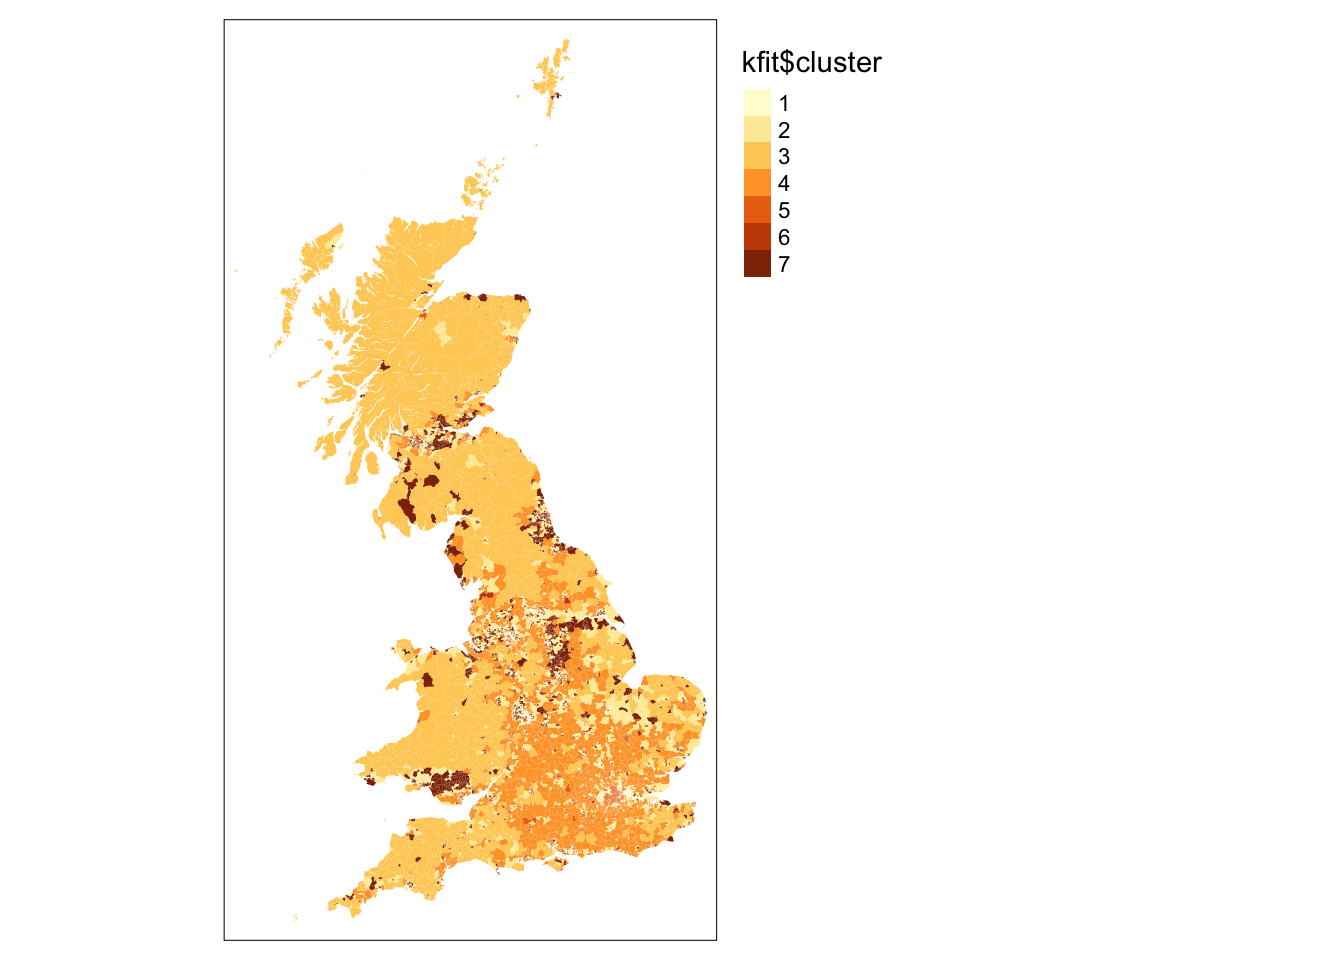
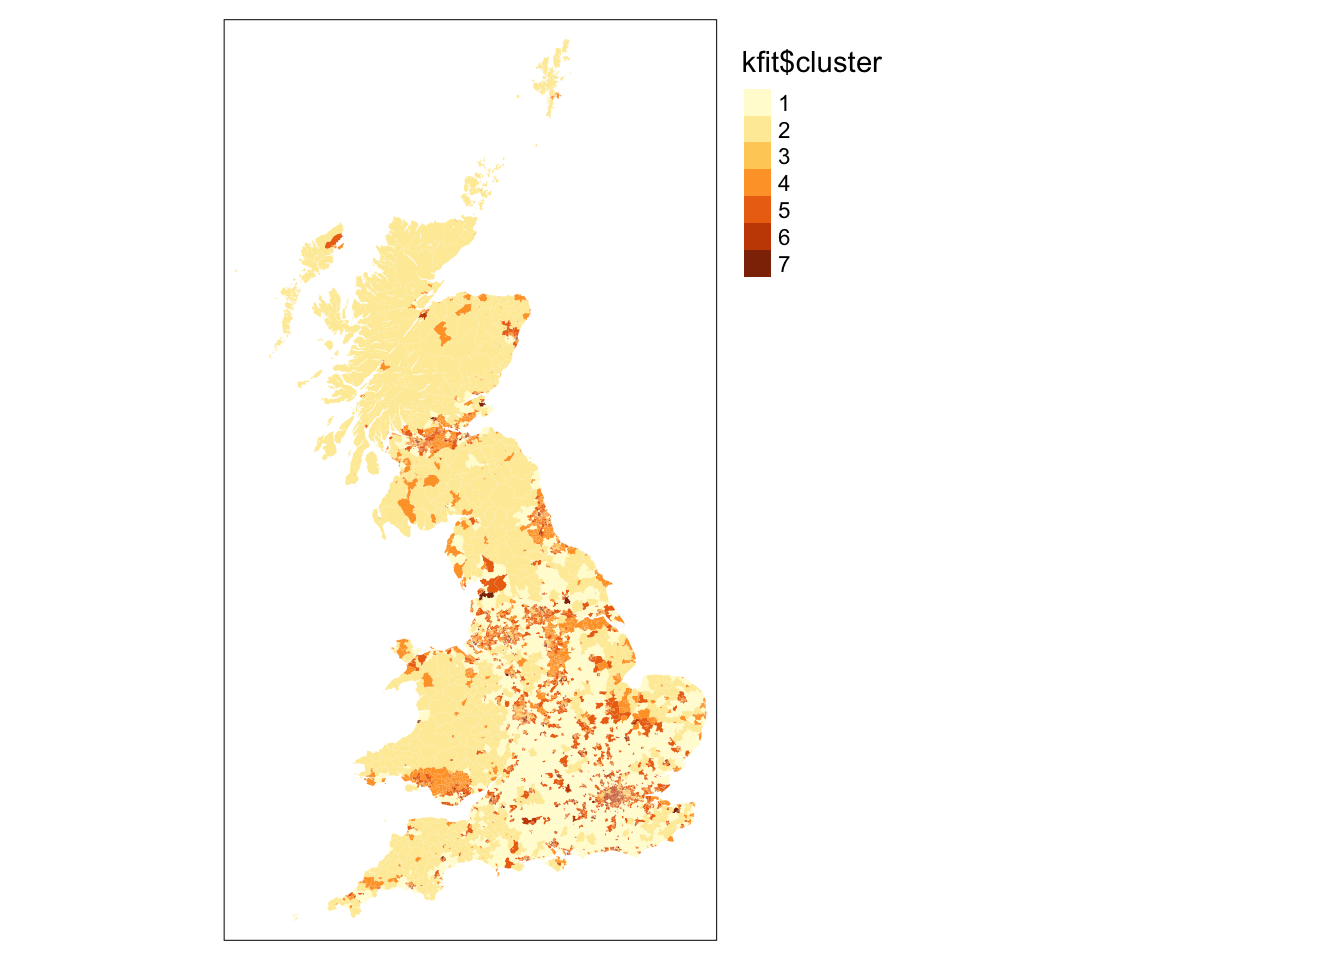
clean up

Changed region(s): [[0.1875, 0.1562, 0.5312, 0.9688], [0.375, 0.0312, 0.4375, 0.125]]

diff --git a/docs/01-geodemographics.html b/docs/01-geodemographics.html
@@ -705,7 +705,7 @@ First 10 features:
 [1] 110934.1
 
 [[3]]
-[1] 96052.66
+[1] 94944.45
 
 [[4]]
 [1] 82701.63
@@ -802,21 +802,21 @@ First 10 features:
 <div class="sourceCode cell-code" id="cb25"><pre class="sourceCode r code-with-copy"><code class="sourceCode r"><span id="cb25-1"><a href="#cb25-1" aria-hidden="true" tabindex="-1"></a><span class="co"># inspect</span></span>
 <span id="cb25-2"><a href="#cb25-2" aria-hidden="true" tabindex="-1"></a>clusters</span></code><button title="Copy to Clipboard" class="code-copy-button"><i class="bi"></i></button></pre></div>
 <div class="cell-output cell-output-stdout">
-<pre><code>K-means clustering with 7 clusters of sizes 956, 2394, 582, 1717, 759, 187, 1885
+<pre><code>K-means clustering with 7 clusters of sizes 1814, 541, 1107, 2053, 2039, 740, 186
 
 Cluster means:
-   age0to4pc  age5to14pc age16to24pc age25to44pc age45to64pc  age75pluspc
+     age0to4pc  age5to14pc age16to24pc age25to44pc age45to64pc age75pluspc
   1_higher_managerial 2_lower_managerial 3_intermediate_occupations
   4_employers_small_org 5_lower_supervisory 6_semi_routine  7_routine
   8_unemployed avg_dwn_speed avb_superfast no_decent_bband
  [ reached getOption("max.print") -- omitted 7 rows ]
 
 Clustering vector:
-[1] 5 1 2 2 1
+[1] 6 3 5 5 3
  [ reached getOption("max.print") -- omitted 8475 entries ]
 
 Within cluster sum of squares by cluster:
-[1]  8164.766 14200.865  6828.975 11927.670  7998.965
+[1] 12871.008  6265.986  9429.647 11736.830 11471.872
  [ reached getOption("max.print") -- omitted 2 entries ]
  (between_SS / total_SS =  56.3 %)
 
@@ -842,7 +842,7 @@ Available components:
 <span id="cb27-8"><a href="#cb27-8" aria-hidden="true" tabindex="-1"></a>kfit_size</span></code><button title="Copy to Clipboard" class="code-copy-button"><i class="bi"></i></button></pre></div>
 </div>
 <div class="cell-output cell-output-stdout">
-<pre><code>[1]  956 2394  582 1717  759
+<pre><code>[1] 1814  541 1107 2053 2039
  [ reached getOption("max.print") -- omitted 2 entries ]</code></pre>
 </div>
 <div class="sourceCode cell-code" id="cb29"><pre class="sourceCode r code-with-copy"><code class="sourceCode r"><span id="cb29-1"><a href="#cb29-1" aria-hidden="true" tabindex="-1"></a><span class="co"># mean values for each variable in each cluster</span></span>
@@ -853,15 +853,15 @@ Available components:
 <span id="cb29-6"><a href="#cb29-6" aria-hidden="true" tabindex="-1"></a>kfit_mean</span></code><button title="Copy to Clipboard" class="code-copy-button"><i class="bi"></i></button></pre></div>
 <div class="cell-output cell-output-stdout">
 <pre><code># A tibble: 7 × 18
-  cluster age0to4pc age5to14pc age16t…¹ age25…² age45…³ age75p…⁴ 1_hig…⁵ 2_low…⁶
-    &lt;int&gt;     &lt;dbl&gt;      &lt;dbl&gt;    &lt;dbl&gt;   &lt;dbl&gt;   &lt;dbl&gt;    &lt;dbl&gt;   &lt;dbl&gt;   &lt;dbl&gt;
-1       1     1.68      1.22     0.401   0.718  -1.25   -1.03    -0.855   -1.20 
-2       2    -0.159    -0.0304  -0.201  -0.138   0.290   0.134   -0.164    0.105
-3       3    -0.891    -0.171   -0.520  -1.00    1.21    0.594    0.0206   0.224
-4       4    -0.596     0.0467  -0.460  -0.713   0.740   0.753    0.970    0.985
-5       5     0.351    -0.886    0.201   2.04   -1.22   -0.948    1.45     1.24 
-6       6    -1.52     -2.68     5.40    0.125  -2.62   -1.28     0.888    0.232
-7       7     0.179     0.0507   0.0150 -0.0638 -0.0313 -0.00611 -0.918   -1.01 
+  cluster age0to4pc age5to14pc age16to…¹ age25…² age45…³ age75…⁴ 1_hig…⁵ 2_low…⁶
+    &lt;int&gt;     &lt;dbl&gt;      &lt;dbl&gt;     &lt;dbl&gt;   &lt;dbl&gt;   &lt;dbl&gt;   &lt;dbl&gt;   &lt;dbl&gt;   &lt;dbl&gt;
+1       1  -0.679      -0.0412   -0.465  -0.773   0.765    0.856  0.845    0.893
+2       2  -0.880      -0.148    -0.523  -0.998   1.22     0.554  0.0251   0.225
+3       3   1.56        1.14      0.381   0.626  -1.13    -0.954 -0.906   -1.26 
+4       4  -0.00815    -0.0824   -0.0526 -0.158   0.0919   0.164 -0.837   -0.849
+5       5   0.0162      0.118    -0.172   0.0189  0.202   -0.103 -0.0481   0.211
+6       6   0.326      -0.923     0.209   2.05   -1.23    -0.927  1.50     1.26 
+7       7  -1.52       -2.68      5.42    0.113  -2.62    -1.28   0.870    0.223
 # … with 9 more variables: `3_intermediate_occupations` &lt;dbl&gt;,
 #   `4_employers_small_org` &lt;dbl&gt;, `5_lower_supervisory` &lt;dbl&gt;,
 #   `6_semi_routine` &lt;dbl&gt;, `7_routine` &lt;dbl&gt;, `8_unemployed` &lt;dbl&gt;,
